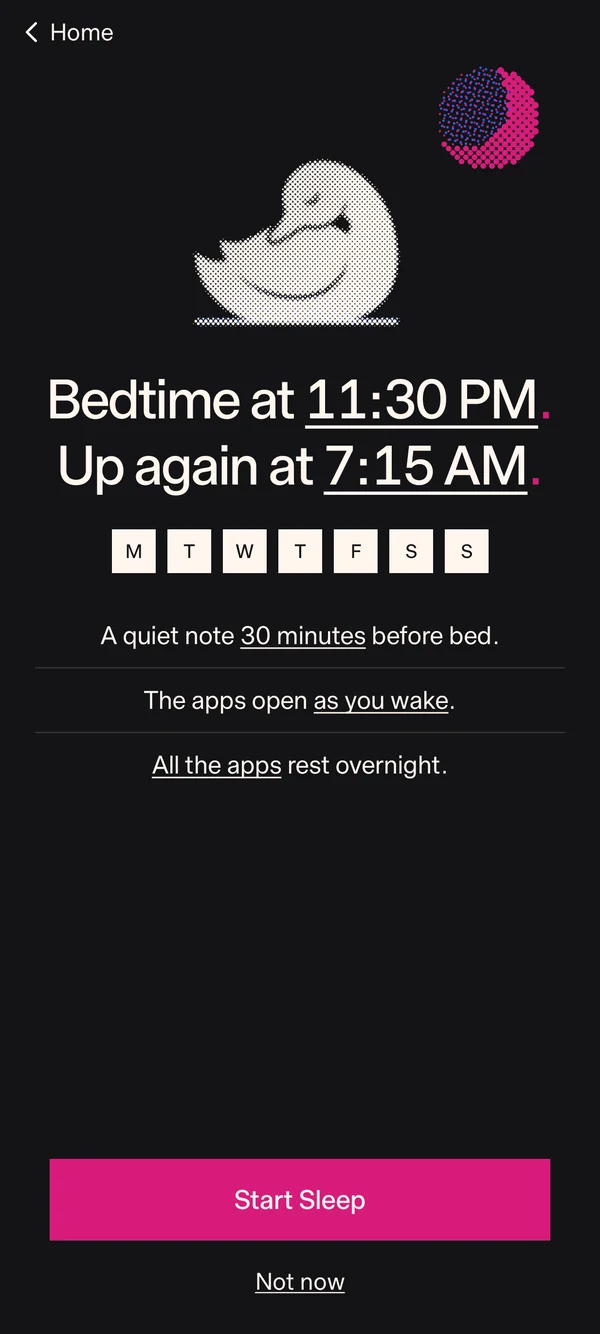
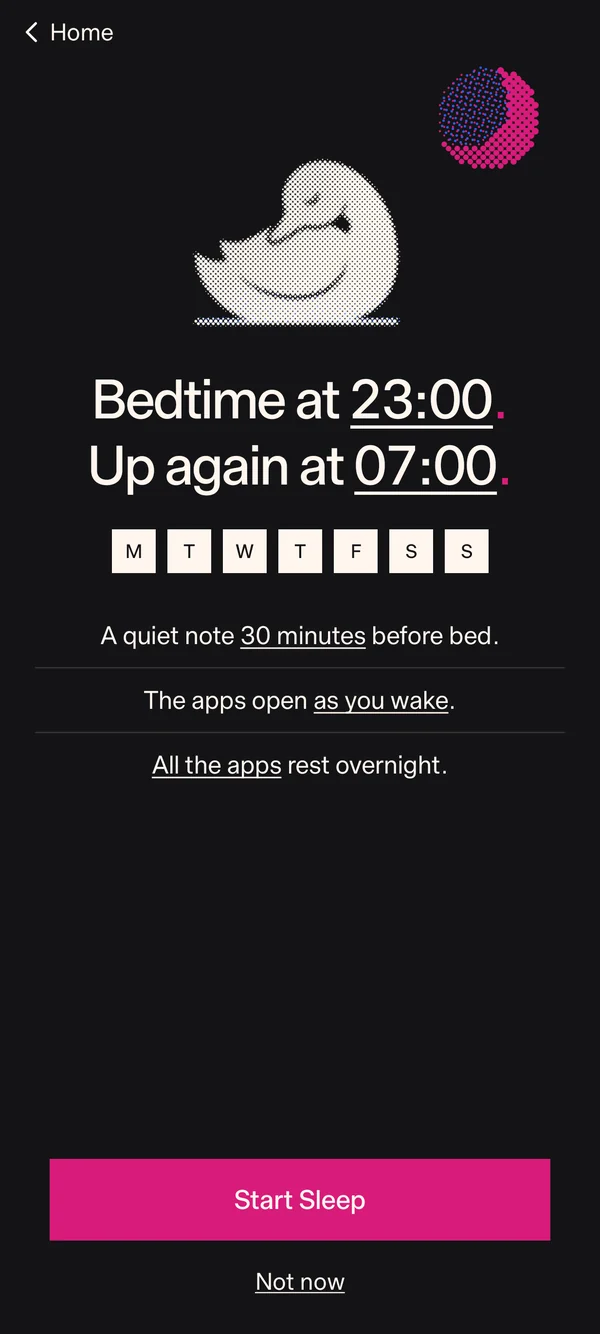
Focus for 50 minutes and Sleep from 23:00 to 07:00 in the site screens

Changed region(s): [[0.06, 0.2766, 0.9, 0.3688]]

diff --git a/index.html b/index.html
@@ -274,7 +274,7 @@ footer { border-top: 1px solid rgba(255,246,238,.2); padding: 16px 0 24px; displ
       <p>Today and Focus on your home screen.</p>
     </div>
     <div class="shots">
-      <img src="./img/screens/focus-start.webp" width="600" height="1334" alt="Focus for 2 h 17 min on the magenta plate: lengths to pick, the eleven apps that pause, a 10 second wait to stop early, rounds or a schedule, a chime when it ends, and Notifications stay quiet" loading="lazy" decoding="async">
+      <img src="./img/screens/focus-start.webp" width="600" height="1334" alt="Focus for 50 minutes on the magenta plate: lengths to pick, the eleven apps that pause, a 10 second wait to stop early, rounds or a schedule, a chime when it ends, and Notifications stay quiet" loading="lazy" decoding="async">
     </div>
   </div></div>
   <div class="half dark" id="sleep"><div class="crop">
@@ -283,7 +283,7 @@ footer { border-top: 1px solid rgba(255,246,238,.2); padding: 16px 0 24px; displ
       <p>Set a bedtime and a morning. In between, the apps rest.</p>
     </div>
     <div class="shots">
-      <img src="./img/screens/sleep.webp" width="600" height="1334" alt="Sleep as a night print: the sleeping cygnet under a halftone moon, Bedtime at 11:30 PM, Up again at 7:15 AM, a quiet note before bed, and Start Sleep" loading="lazy" decoding="async">
+      <img src="./img/screens/sleep.webp" width="600" height="1334" alt="Sleep as a night print: the sleeping cygnet under a halftone moon, Bedtime at 23:00, Up again at 07:00, a quiet note before bed, and Start Sleep" loading="lazy" decoding="async">
     </div>
   </div></div>
 </section>
